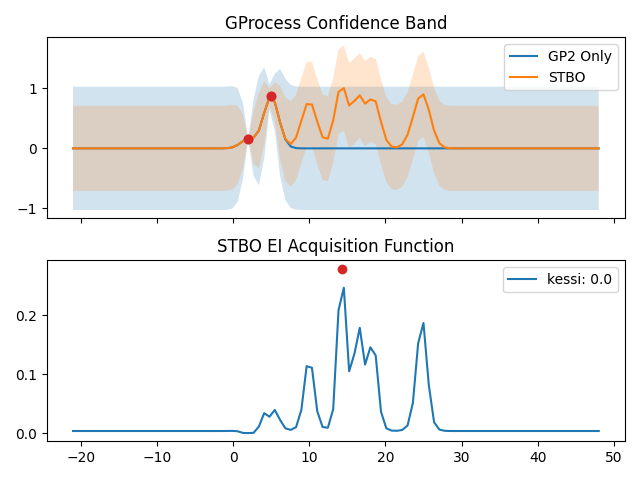
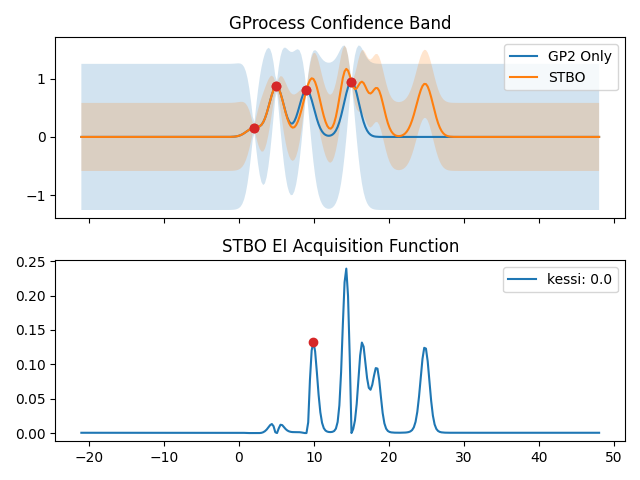
add more plot numbers in STBO plot function

diff --git a/main.py b/main.py
@@ -46,13 +46,10 @@ if __name__ == "__main__":
     print(STBO.compute_mle_sigma2())
     print(STBO.diffGP.compute_mle_sigma2())
 
-    x1 = [15]
-    print(STBO.aux_func_ei(x1))
-    STBO.plot_ei(highlight_point=[15, STBO.aux_func_ei([15])])
-
     for x_k in range(10, 20, 1):
         print("grad at ", x_k, " ", STBO.auto_grad_ei([x_k]))
 
     start_points = [[0], [11], [15]]
-    next_point, next_point_aux = STBO.find_best_NextPoint_ei(start_points, learn_rate=0.5, num_step=100)    
-    STBO.plot_ei(kessis=[0.0], highlight_point=[next_point, next_point_aux])
+    next_point, next_point_aux = STBO.find_best_NextPoint_ei(start_points, learn_rate=0.5, num_step=60)    
+    STBO.plot_ei(kessis=[0.0], num_points=300, highlight_point=[next_point, next_point_aux])
+    print(STBO.aux_func_ei(next_point))

diff --git a/optimization.py b/optimization.py
@@ -185,7 +185,7 @@ class ExpectedImprovement(ZeroGProcess):
             best_points_aux.append((best_point_k, best_aux_k))
 
         best_point, best_aux = max(best_points_aux, key=itemgetter(1)) 
-
+        print(best_point, best_aux)
         return best_point, best_aux
 
     def plot_ei(self, num_points=100, exp_ratio=1, confidence=0.9, kessis=[0.0], highlight_point=None):
